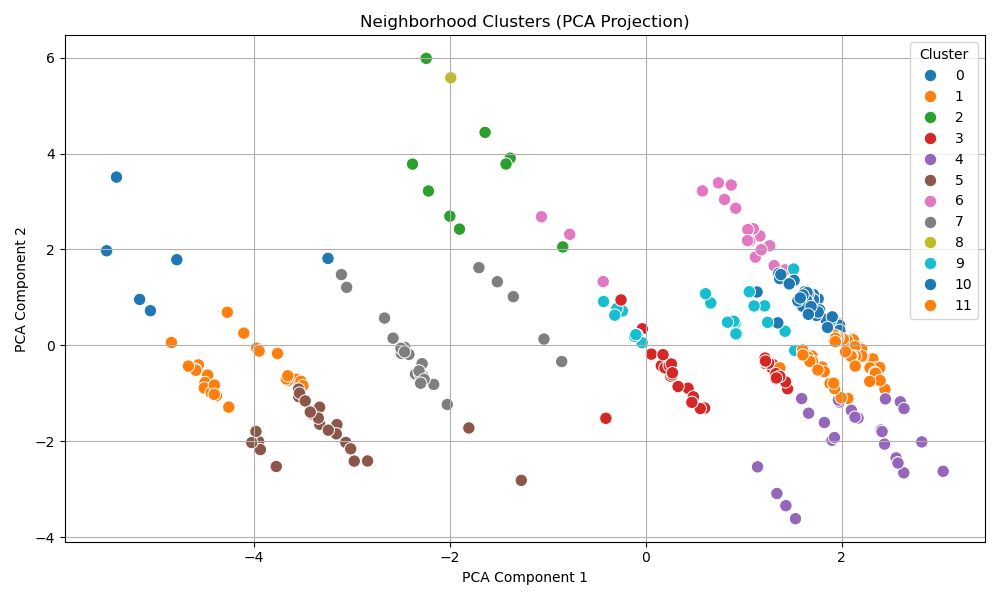
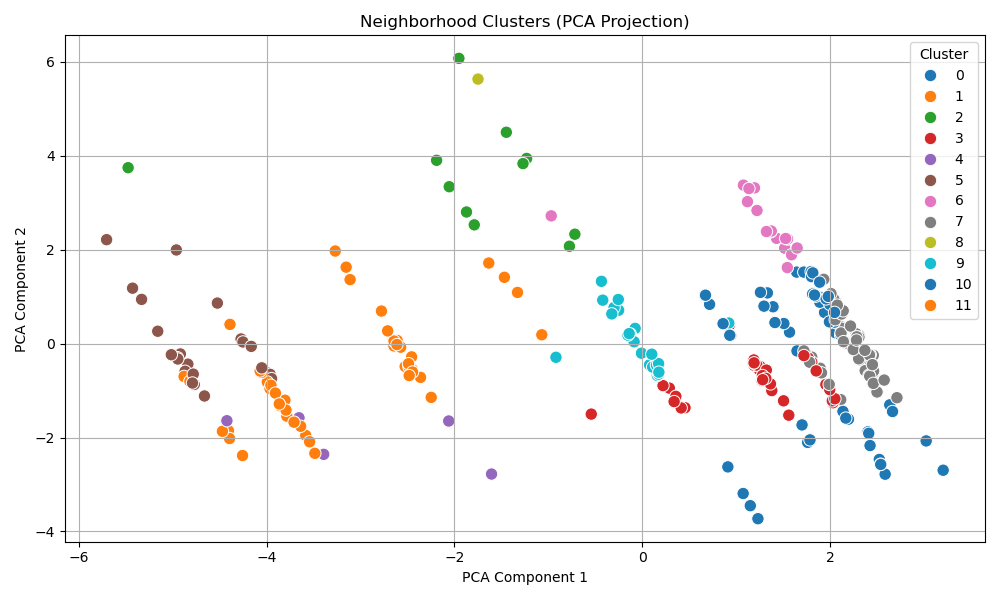
assign clusters to hypothetical

diff --git a/models/idea_one_model.py b/models/idea_one_model.py
@@ -45,8 +45,8 @@ drop_cols = ['Crime_Occurances','Unnamed: 28']
 
 # remove any underscores in column names
 df.columns = df.columns.str.replace('_', '', regex=False)
-df.drop(columns=drop_cols, inplace=True, errors='ignore')  # drop unnecessary columns
-#df.drop('Unnamed: 28', axis=1, inplace=True)
+#df.drop(columns=drop_cols, inplace=True, errors='ignore')  # drop unnecessary columns
+df.drop('Unnamed: 28', axis=1, inplace=True)
 df = df.dropna()
 
 
@@ -62,8 +62,8 @@ print("df columns:", df.columns.tolist())
 
 # Select columns that are safe and valid for clustering
 clustering_features = df[[
-    'CrimeOccurances', 'rent2019', 'rent2020', 'rent2021', 'rent2022', 'rent2023',
-    'TransitScore', 'WalkScore', 'BikeScore'
+    'rent2019', 'rent2020', 'rent2021', 'rent2022', 'rent2023', 'CrimeOccurances',
+    'WalkScore', 'TransitScore','BikeScore', 'rent2024'
 ]]
 
 # Normalize the features
@@ -113,10 +113,12 @@ plt.tight_layout()
 plt.savefig("clusters.png")
 plt.close()
 
+print(df)
+
 #Cluster interpretation summary
 summary = df.groupby('Cluster')[[
-    'CrimeOccurances', 'rent2019', 'rent2020', 'rent2021', 'rent2022', 'rent2023',
-    'TransitScore', 'WalkScore', 'BikeScore'
+   'rent2019', 'rent2020', 'rent2021', 'rent2022', 'rent2023', 'CrimeOccurances',
+     'WalkScore', 'TransitScore','BikeScore', 'rent2024'
 ]].mean().round(2)
 
 print("\nCluster Summary:")
@@ -130,6 +132,14 @@ for i in range(12):
 #  Drop clustering columns before model training to avoid prediction errors
 df.drop(columns=['Cluster', 'pca1', 'pca2'], inplace=True, errors='ignore')
 
+
+#%% 
+# save the clustering model
+kmeans_model_path = 'kmeans_model.pkl'
+import joblib
+joblib.dump(kmeans, kmeans_model_path)
+# Print confirmation
+print(f"KMeans saved")
 
 #%% 
 # define upper and lower bounds for the saftey based on the user input
@@ -275,7 +285,7 @@ print(combo_df)
 #%%%
 
 X = df.drop(columns=['rent2024', 'rent2025','NeighbourhoodNumber', 'CenterLocation', 
-                     'CityZone', 'CMHCZone', 'CrimeOccurances', 
+                     'CityZone', 'CMHCZone', 'CrimeRate', 
                      'SupportiveHousingCount', 'SupportiveUnits', 
                      'SheltersCount','Distance to U of A (km)',
                     'Distance to MacEwan (km)', 
@@ -351,5 +361,47 @@ for i in range(len(y_pred_using_combo)):
     print(f"hypothetical neighborhood {i+1}: {combo_df.iloc[i].to_dict()} -> rent estimate{y_pred_using_combo[i]:.2f}")
 
 # %%
+# store the hypothetical neighborhoods with rent estimates in a new dataframe
+hypothetical_neighborhoods = combo_df.copy()
+hypothetical_neighborhoods['rent2024'] = y_pred_using_combo
+print(hypothetical_neighborhoods)
 
 
+# %%
+# use the kmeans saved kmeans model to predict the cluster for each hypothetical neighborhood
+# Load the saved KMeans model
+kmeans = joblib.load('/Users/mylayambao/resiSense/models/kmeans_model.pkl')
+# Predict clusters for the hypothetical neighborhoods
+hypothetical_neighborhoods_scaled = scaler.transform(hypothetical_neighborhoods)
+hypothetical_neighborhoods['Cluster'] = kmeans.predict(hypothetical_neighborhoods_scaled)
+# Print the hypothetical neighborhoods with clusters
+print("\nHypothetical Neighborhoods with Clusters:")
+print(hypothetical_neighborhoods[['rent2024', 'Cluster']])
+# %%
+print(hypothetical_neighborhoods)
+
+# %%
+
+# Apply PCA for 2D visualization
+pca = PCA(n_components=2)
+pca_result = pca.fit_transform(hypothetical_neighborhoods_scaled)
+hypothetical_neighborhoods['pca1'] = pca_result[:, 0]
+hypothetical_neighborhoods['pca2'] = pca_result[:, 1]
+
+# Save PCA cluster scatterplot
+plt.figure(figsize=(10, 6))
+sns.scatterplot(data=hypothetical_neighborhoods, x='pca1', y='pca2', hue='Cluster', palette='tab10', s=80)
+plt.title("Neighborhood Clusters (PCA Projection)")
+plt.xlabel("PCA Component 1")
+plt.ylabel("PCA Component 2")
+plt.grid(True)
+plt.tight_layout()
+plt.savefig("clusters2.png")
+plt.close()
+
+# %%
+# count  the number of neighborhoods in each cluster
+cluster_counts = hypothetical_neighborhoods['Cluster'].value_counts().sort_index()
+print("\nCluster Counts:")
+print(cluster_counts)
+# %%
